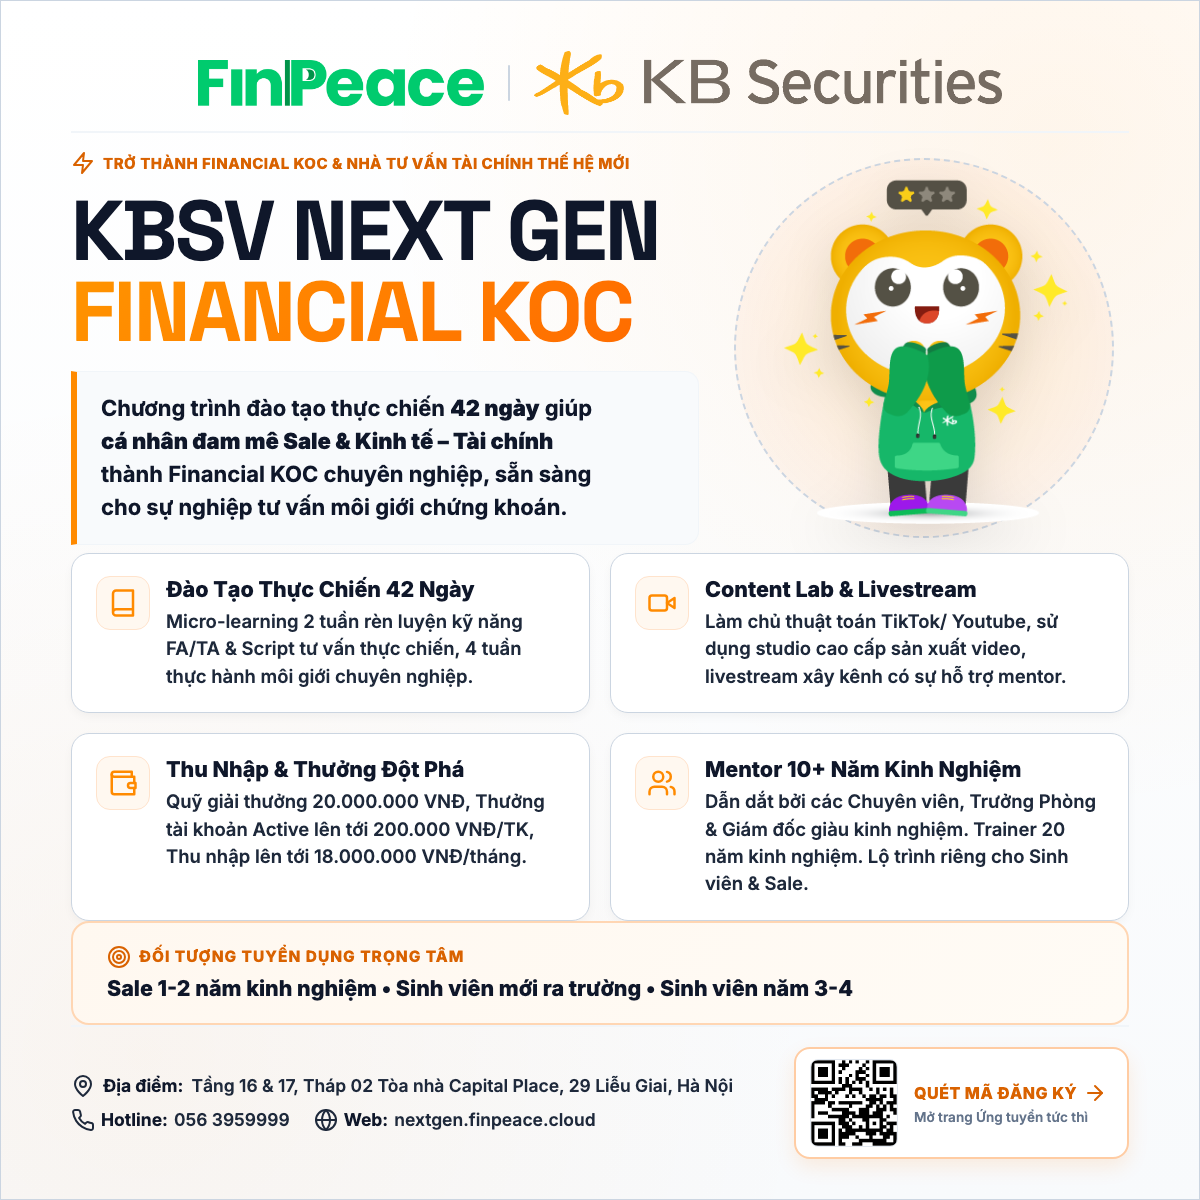
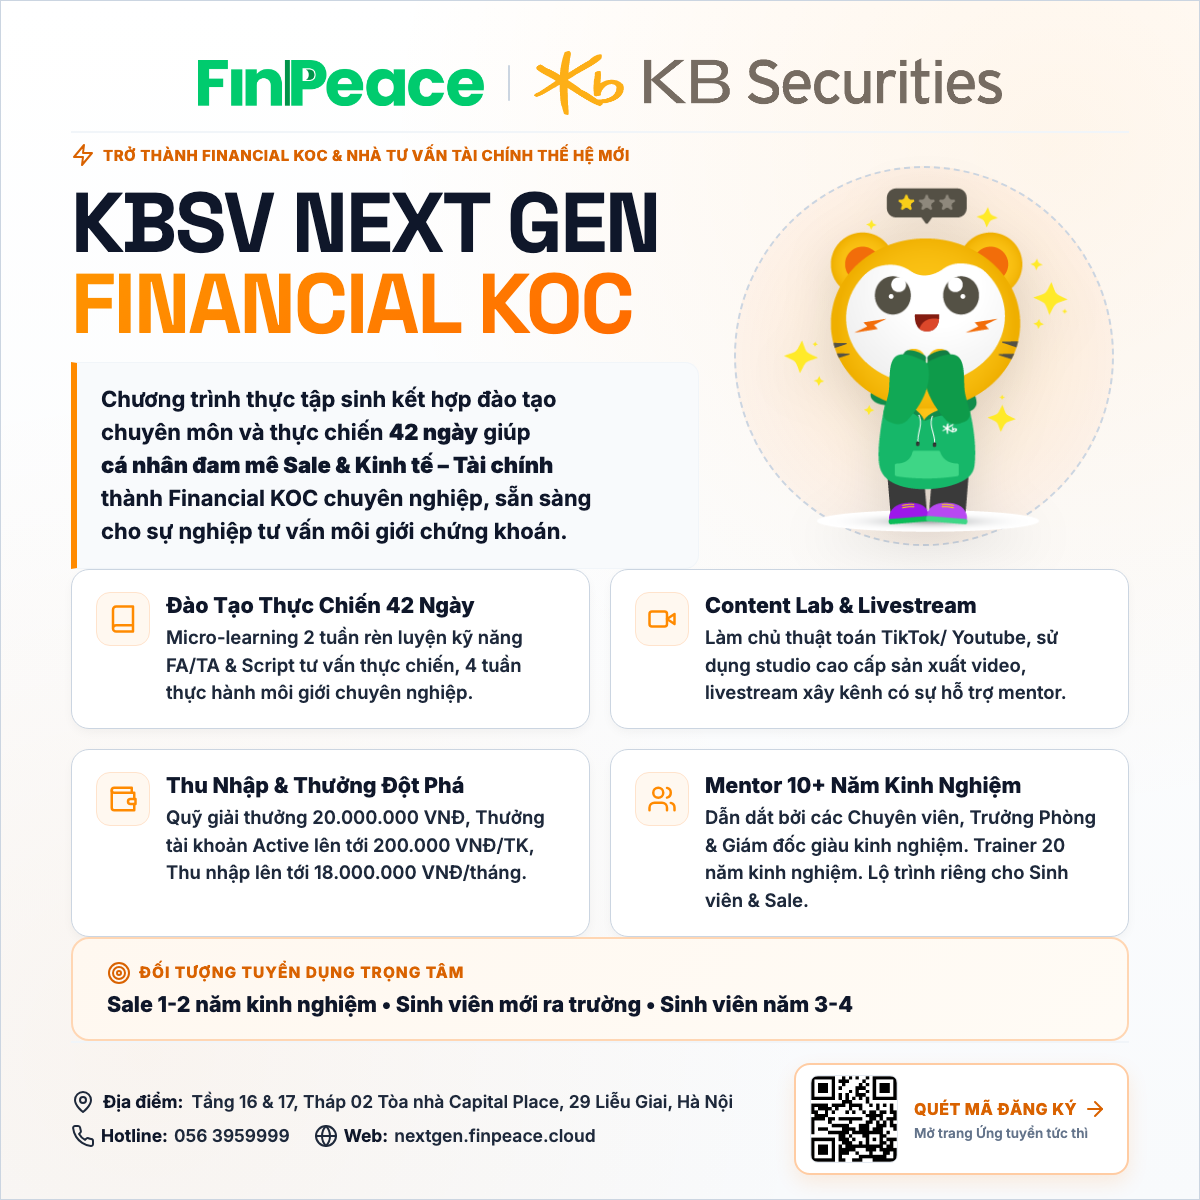
Update program description to 'Chương trình thực tập sinh kết hợp đào tạo chuyên môn và thực chiến 42 ngày...'

diff --git a/index.html b/index.html
@@ -4,10 +4,10 @@
     <meta charset="UTF-8">
     <meta name="viewport" content="width=device-width, initial-scale=1.0">
     <title>KBSV NEXT GEN – Tuyển dụng Chuyên viên Tư vấn Đầu tư Thế hệ Mới</title>
-    <meta name="description" content="KBSV NEXT GEN – Chương trình đào tạo thực chiến 42 ngày giúp cá nhân đam mê Sale hoặc yêu thích làm việc trong các lĩnh vực Kinh tế – Tài chính thành Financial KOC chuyên nghiệp, sẵn sàng cho sự nghiệp tư vấn môi giới đầu tư chứng khoán. Đăng ký ngay!">
+    <meta name="description" content="KBSV NEXT GEN – Chương trình thực tập sinh kết hợp đào tạo chuyên môn và thực chiến 42 ngày giúp cá nhân đam mê Sale hoặc yêu thích làm việc trong các lĩnh vực Kinh tế – Tài chính thành Financial KOC chuyên nghiệp, sẵn sàng cho sự nghiệp tư vấn môi giới đầu tư chứng khoán. Đăng ký ngay!">
     <meta name="keywords" content="KBSV, tuyển dụng, chứng khoán, Financial KOC, sale, sinh viên, đào tạo, KB Securities, thực tập">
     <meta property="og:title" content="KBSV NEXT GEN – Thế hệ Tư vấn - Môi giới Không Giới Hạn">
-    <meta property="og:description" content="KBSV Next Gen – Chương trình đào tạo thực chiến 42 ngày giúp cá nhân đam mê Sale hoặc yêu thích làm việc trong các lĩnh vực Kinh tế – Tài chính thành Financial KOC chuyên nghiệp, sẵn sàng cho sự nghiệp tư vấn môi giới đầu tư chứng khoán.">
+    <meta property="og:description" content="KBSV Next Gen – Chương trình thực tập sinh kết hợp đào tạo chuyên môn và thực chiến 42 ngày giúp cá nhân đam mê Sale hoặc yêu thích làm việc trong các lĩnh vực Kinh tế – Tài chính thành Financial KOC chuyên nghiệp, sẵn sàng cho sự nghiệp tư vấn môi giới đầu tư chứng khoán.">
     <meta property="og:type" content="website">
     <meta property="og:image" content="https://nextgen.finpeace.cloud/assets/images/og-share.png?v=3">
     <meta property="og:image:width" content="1200">
@@ -107,7 +107,7 @@
                     <span class="title-line title-accent">NEXT GEN</span>
                 </h1>
                 <p class="hero-tagline">Thế hệ Tư vấn - Môi giới <strong>Không Giới Hạn</strong></p>
-                <p class="hero-desc">Chương trình đào tạo thực chiến <strong>42 ngày</strong> giúp cá nhân đam mê Sale hoặc yêu thích làm việc trong các lĩnh vực <strong>Kinh tế – Tài chính</strong> thành <strong>Financial KOC</strong> chuyên nghiệp, sẵn sàng cho sự nghiệp <strong>tư vấn môi giới đầu tư chứng khoán</strong>.</p>
+                <p class="hero-desc">Chương trình thực tập sinh kết hợp đào tạo chuyên môn và thực chiến <strong>42 ngày</strong> giúp cá nhân đam mê Sale hoặc yêu thích làm việc trong các lĩnh vực <strong>Kinh tế – Tài chính</strong> thành <strong>Financial KOC</strong> chuyên nghiệp, sẵn sàng cho sự nghiệp <strong>tư vấn môi giới đầu tư chứng khoán</strong>.</p>
                 
                 <!-- Countdown -->
                 <div class="countdown-wrapper">
@@ -181,7 +181,7 @@
             <div class="section-header reveal">
                 <span class="section-tag">Chương trình</span>
                 <h2 class="section-title">Từ đam mê →<br><span class="text-accent">Financial KOC</span> trong 42 ngày</h2>
-                <p class="section-subtitle">KBSV Next Gen là chương trình đào tạo thực chiến 42 ngày giúp cá nhân đam mê Sale hoặc yêu thích làm việc trong các lĩnh vực Kinh tế – Tài chính thành Financial KOC chuyên nghiệp, sẵn sàng cho sự nghiệp tư vấn môi giới đầu tư chứng khoán. Bạn không chỉ học về chứng khoán – bạn sẽ sản xuất content, livestream tư vấn, và xây dựng cộng đồng nhà đầu tư của riêng mình.</p>
+                <p class="section-subtitle">KBSV Next Gen là chương trình thực tập sinh kết hợp đào tạo chuyên môn và thực chiến 42 ngày giúp cá nhân đam mê Sale hoặc yêu thích làm việc trong các lĩnh vực Kinh tế – Tài chính thành Financial KOC chuyên nghiệp, sẵn sàng cho sự nghiệp tư vấn môi giới đầu tư chứng khoán. Bạn không chỉ học về chứng khoán – bạn sẽ sản xuất content, livestream tư vấn, và xây dựng cộng đồng nhà đầu tư của riêng mình.</p>
             </div>
             <div class="about-grid">
                 <div class="about-card reveal">

diff --git a/poster.html b/poster.html
@@ -366,7 +366,7 @@
                     <span class="text-orange">FINANCIAL KOC</span>
                 </h1>
                 <div class="program-description">
-                    Chương trình đào tạo thực chiến <strong>42 ngày</strong> giúp <strong>cá nhân đam mê Sale & Kinh tế – Tài chính</strong> thành Financial KOC chuyên nghiệp, sẵn sàng cho sự nghiệp tư vấn môi giới <span style="white-space: nowrap;">chứng khoán.</span>
+                    Chương trình thực tập sinh kết hợp đào tạo chuyên môn và thực chiến <strong>42 ngày</strong> giúp <strong>cá nhân đam mê Sale & Kinh tế – Tài chính</strong> thành Financial KOC chuyên nghiệp, sẵn sàng cho sự nghiệp tư vấn môi giới <span style="white-space: nowrap;">chứng khoán.</span>
                 </div>
             </div>
             <!-- Official Mascot Image (Enlarged) -->
